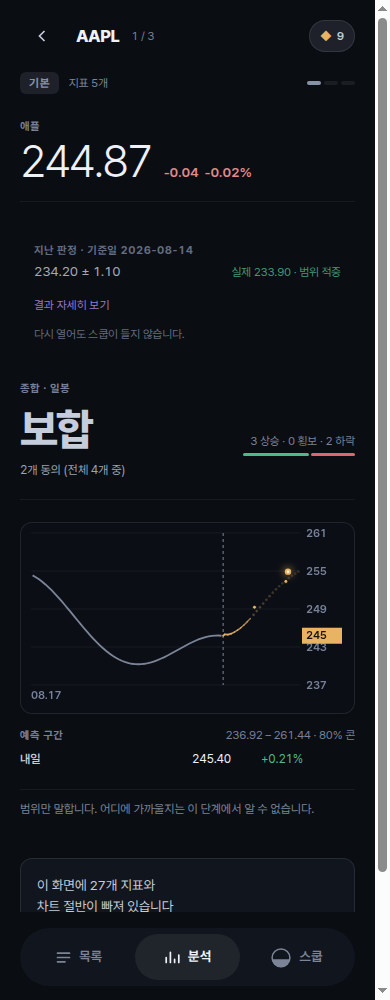
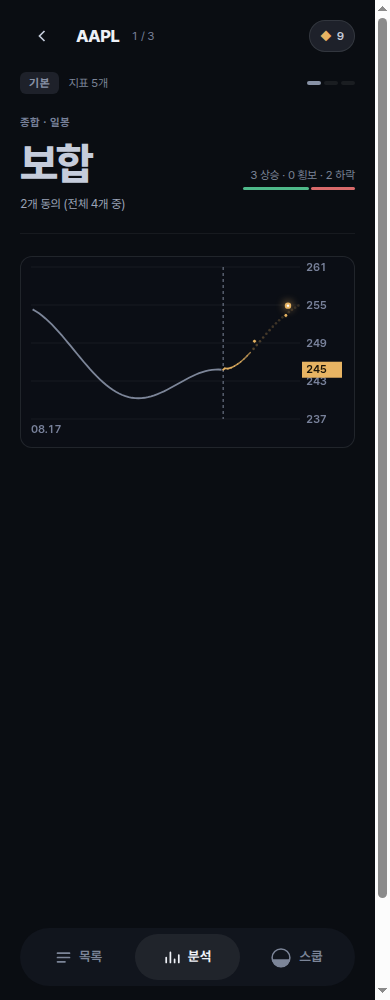
feat(mobile): 리포트 블록 선언 — 세 티어가 한 구조를 공유한다
전문은 심화의 블록을 하나도 빼지 않고 조절판만 더한 것이다. 각 화면이 자기 조립
코드를 갖고 있으면 그 규칙을 사람이 눈으로 지켜야 하고, 5스쿱을 낸 사용자가 한 줄
손해 보는 것을 아무도 못 잡는다. 선언으로 뽑아 기계가 세게 했다.

기본 3 · 심화 8 · 전문 9(P1 설계서 §3.2·§3.5·§3.7 — 구 P2 구현의 심화 7개는 서브패널
셈법 차이로 낡은 수치였다). report-blocks.js 의 orderOf 를 forTier 로 개명하고(브리프가
쓰던 이름과 현행 API 가 달랐다), 유일한 소비자 screens/report.js:1270 과 tier-three.test.mjs
(품질 관문, grep 로 못 잡던 두 번째 소비자)를 같은 커밋에서 갱신해 앱이 깨진 채로
남지 않게 했다.

report-model.js 에 verdict()·sentence() 를 더한다. verdict 는 지표 바이어스 집계를
동의/반대/무판정으로 매핑하고 합계를 검산하는 뷰모델(하락 판정에선 down 이 동의가
된다). sentence 는 19b 「한 문장으로」— 생성 문구가 아니라 방향·과열·저항 세 값을
strings.js 조각으로 잇는 템플릿이다.

기본 화면의 BUILD 표는 넓히지 않았다 — 화면 조립은 Task 3(기본)·P1b/P1c(심화·전문)
소관이라 이번엔 손대지 않는다. comb·sentence 등 새 블록 id 는 아직 그리는 함수가
없어 조용히 건너뛰지만(if (!fn) return), 브라우저 관문은 report 라우트 포함 6/6이다.

diff --git a/map/mobile/www/report-blocks.js b/map/mobile/www/report-blocks.js
@@ -1,60 +1,37 @@
-// 티어별 리포트 블록 **선언**. DOM 도 엔진도 모른다 — 이름의 순서와 셈법만 담는다.
+// 리포트가 무엇을 어떤 순서로 그리는가 — 선언만. DOM 도 계산도 없다.
 //
-// 왜 선언으로 빼는가: 블록 3/8/9 는 세 벌의 화면이 아니라 **같은 렌더러가 다른 목록을 받는
-// 것**이다. 세 벌로 쓰면 공통 블록을 고칠 때 세 곳을 고쳐야 하고, 한 곳을 빠뜨려도 그 티어를
-// 열어보기 전엔 아무도 모른다. screens/report.js 는 이미 966줄이었다 — 티어 두 벌을 그 안에
-// 더 넣으면 손댈 수 없는 파일이 된다.
+// 세 티어가 같은 선언을 공유하는 이유: 전문은 심화의 블록을 하나도 빼지 않고 조절판만
+// 더한 것이다(설계 §3.7). 각 화면이 자기 조립 코드를 갖고 있으면 그 규칙을 사람이
+// 눈으로 지켜야 하고, 5스쿱을 낸 사용자가 한 줄 손해 보는 것을 아무도 못 잡는다.
 (function (root, factory) {
   if (typeof module !== "undefined" && module.exports) module.exports = factory();
   else MSGlobals.define("MSReportBlocks", factory());
 })(typeof self !== "undefined" ? self : this, function () {
   "use strict";
 
-  // 시안이 "블록 N개"를 셀 때 세지 않는 것들 — 화면의 뼈대지 파는 정보가 아니다.
-  //  price  : 종목명·가격·티어 배지 머리
-  //  legend : 차트존의 일부(18b 는 차트존을 하나로 센다)
-  //  note   : 측정 범위 고지 각주
-  //  spacer : 18a 의 의도된 빈 공간(flex:1)
-  //  unlock : 해제 카드. 18a 는 "블록 3개 = 판정+차트+범위"라 적고 이 카드를 따로 뒀다
-  // 크롬 — 시안의 "블록 N개" 셈에 안 들어가는 것들. 티어가 **파는 정보**가 아니라 화면의
-  // 골격이거나(가격 머리·범례·면책) 되돌아보기 장치다.
-  // "last"(지난 판정, 21a)를 여기 두는 이유: 그것은 이 티어가 오늘 파는 정보가 아니라
-  // 이미 값을 치른 과거의 결과다. 정보 블록으로 세면 기본분석이 3개가 아니라 4개가 되어
-  // "여기까지가 무료"라는 시안의 셈이 무너진다.
-  var CHROME = ["price", "legend", "note", "spacer", "unlock", "last"];
+  // 기본은 셋뿐이다. 화면 아래가 비는 것이 설계다 — 스크롤할 것이 없다는 사실 자체가
+  // "여기까지가 무료"를 말한다(시안 18a).
+  var BASIC = ["verdict", "comb", "chart"];
 
-  // 기본분석(시안 18a) — 판정 → 차트(150) → 내일 범위 → **빈 공간** → 해제 카드.
-  // 빈 공간은 버그가 아니다. "여기까지가 무료"를 스크롤 부재로 전달한다 — 채우지 말 것.
-  // "last" 는 지난 판정 되돌아보기(시안 21a) — 값을 치른 적이 있는 종목에만 나온다.
-  // 판정 **위**에 둔다: 앱을 다시 연 사람의 첫 질문이 "어제 그거 맞았나"이기 때문이고,
-  // 그 답을 아래로 내리면 오늘 값을 먼저 보고 어제 것과 헷갈린다.
-  var BASIC = ["price", "last", "verdict", "chart", "horizons", "spacer", "unlock"];
+  // 심화는 값이 큰 것부터. 「한 문장으로」가 맨 위인 이유는 숫자를 먼저 내면 대부분이
+  // 해석을 못 하고 닫기 때문이다(시안 19b).
+  var FULL = ["sentence", "forecast", "chart", "dissent", "horizons", "hitrate", "readings", "compare"];
 
-  // 심화분석(시안 18b) — 판정 먼저. 8a 의 직전 상태 대조는 horizons 블록 **안에** 얹힌다
-  // (별도 블록이 아니다 — 골격을 바꾸지 않고 얹는다는 것이 사용자 결정의 요지다).
-  //
-  // P1 이 갖고 있던 SIGNALS·REASONING·미반영 박스 셋은 여기서 빠졌다. 사라진 게 아니라
-  // **판독문 화면(20a)으로 옮겼다** — 시안 18b 가 그 자리에 "지표 32개 판독문" 링크 하나를
-  // 두는 이유가 이것이다. 목적지 없이 먼저 지웠으면 돈 내고 산 정보가 없어졌을 것이라,
-  // 판독문 화면(Task 10)을 먼저 세우고 이 라운드에 옮겼다.
-  var FULL = ["price", "last", "verdict", "chart", "legend", "horizons",
-              "against", "tf", "note", "readings", "cta"];
+  // 조절판은 판정보다 위에 온다(시안 18c) — 내가 만진 것이 결과를 바꿨다는 순서다.
+  var CUSTOM = ["weights"].concat(FULL);
 
-  // 전문분석(시안 18c) — 심화의 블록을 **하나도 빼지 않고** 위에 조절판을 얹는다.
-  // 한 겹이라도 빠지면 5스쿱 낸 사람이 손해다(인벤토리 §3). 그래서 FULL 을 복사해 쓴다:
-  // 심화가 늘면 전문도 자동으로 는다. 조절판(weights)은 판정 위, 머리 바로 아래다.
-  var CUSTOM = ["price", "weights"].concat(FULL.slice(1));
+  var KIND = {
+    verdict: "verdict", comb: "comb", chart: "chart", sentence: "sentence",
+    forecast: "forecast", dissent: "dissent", horizons: "horizons",
+    hitrate: "hitrate", readings: "readings", compare: "compare", weights: "weights"
+  };
 
-  var TIERS = { basic: BASIC, full: FULL, custom: CUSTOM };
-
-  function orderOf(tier) {
-    return (TIERS[tier] || BASIC).slice();
+  function forTier(tier) {
+    var ids = tier === "custom" ? CUSTOM : (tier === "full" ? FULL : BASIC);
+    var out = [], i;
+    for (i = 0; i < ids.length; i++) out.push({ id: ids[i], kind: KIND[ids[i]] });
+    return out;
   }
-  // 정보 블록 수 — 시안의 "블록 N개"와 같은 셈법.
-  function countOf(tier) {
-    return orderOf(tier).filter(function (k) { return CHROME.indexOf(k) < 0; }).length;
-  }
-  function isChrome(key) { return CHROME.indexOf(key) >= 0; }
 
-  return { TIERS: TIERS, CHROME: CHROME, orderOf: orderOf, countOf: countOf, isChrome: isChrome };
+  return { forTier: forTier, COUNTS: { basic: BASIC.length, full: FULL.length, custom: CUSTOM.length } };
 });

diff --git a/map/mobile/www/report-model.js b/map/mobile/www/report-model.js
@@ -1,10 +1,15 @@
 // 리포트 화면의 계산만 담는다 — DOM 도 전역 엔진도 만지지 않는다.
 // ForgeCore 를 인자로 받는 것은 MSGraph.basicGraph(ForgeCore) 와 같은 규약이다.
+// verdict()·sentence() 는 문구 조각을 strings.js 에서 받는다(P1a Task 2) — chart-legend.js 가
+// MSStr 을 팩토리 인자로 받는 것과 같은 규약. 전역 MSStr 을 이 파일 안에서 직접 참조하면
+// node --test 가 require("./strings.js") 로 주입한 것과 어긋난다.
 (function (root, factory) {
-  if (typeof module !== "undefined" && module.exports) module.exports = factory();
-  else MSGlobals.define("MSReportModel", factory());
-})(typeof self !== "undefined" ? self : this, function () {
+  if (typeof module !== "undefined" && module.exports) module.exports = factory(require("./strings.js"));
+  else MSGlobals.define("MSReportModel", factory(root.MSStr));
+})(typeof self !== "undefined" ? self : this, function (Str) {
   "use strict";
+
+  var T = (Str && Str.t) || {};
 
   // 시안 2a 의 Tomorrow / In 1 week / In 1 month. 3개월(63봉)은 futW 상한(60)과
   // 콘 비중(28%→50%) 때문에 뺐다 — 설계서 §3.2.
@@ -135,5 +140,35 @@
     return { agree: total ? agree : 0, total: total };
   }
 
-  return { HORIZONS: HORIZONS, FLAT_EPS: FLAT_EPS, confidence: confidence, horizonRows: horizonRows, hitRate: hitRate, tfRows: tfRows, agreeCount: agreeCount, tfKo: tfKo };
+  // 판정 뷰모델 — 지표 바이어스 부호 집계(up/down/flat)를 화면이 쓰는 동의/반대/무판정으로
+  // 매핑하고 합계를 검산해 돌려준다. dir 이 어느 부호가 "동의"인지를 정한다 — 하락 판정에서는
+  // down 이 동의, up 이 반대가 된다(설계서 §3.5). 매핑을 화면마다 따로 하면 심화·전문에서
+  // 부호가 뒤집혀도 아무도 못 잡는다. total 을 여기서 도출해 돌려주는 이유는 "도구 32개 중
+  // 24개" 같은 헤드라인 카운터와 agree+dissent+noDir 의 합이 반드시 맞아야 하기 때문이다.
+  function verdict(an) {
+    var dir = (an && an.dir) || null;
+    var up = (an && typeof an.up === "number") ? an.up : 0;
+    var down = (an && typeof an.down === "number") ? an.down : 0;
+    var noDir = (an && typeof an.flat === "number") ? an.flat : 0;
+    var agree = 0, dissent = 0;
+    if (dir === "bull") { agree = up; dissent = down; }
+    else if (dir === "bear") { agree = down; dissent = up; }
+    else { noDir = up + down + noDir; }   // 방향이 없으면 "동의"할 방향 자체가 없다
+    return { dir: dir, agree: agree, dissent: dissent, noDir: noDir, total: agree + dissent + noDir };
+  }
+
+  // 19b 「한 문장으로」— 생성 문구가 아니라 방향·과열·저항 세 값을 규칙으로 잇는 템플릿이다.
+  // 숫자를 먼저 내면 대부분은 해석을 못 하고 닫기 때문에 이 문장이 심화 리포트 선언 순서의
+  // 맨 위에 온다(P1a Task 2). 문구 자체는 strings.js 에서 오고 여기는 조합만 한다 — 문장을
+  // 바꾸고 싶으면 strings.js 만 고치면 된다.
+  function sentence(an) {
+    var dir = an && an.dir;
+    var base = dir === "bull" ? T.rpSentBull : dir === "bear" ? T.rpSentBear : T.rpSentFlat;
+    var parts = [base];
+    if (an && an.overheat) parts.push(T.rpSentOverheat);
+    if (an && an.resistance) parts.push(T.rpSentResistance);
+    return parts.join(" ");
+  }
+
+  return { HORIZONS: HORIZONS, FLAT_EPS: FLAT_EPS, confidence: confidence, horizonRows: horizonRows, hitRate: hitRate, tfRows: tfRows, agreeCount: agreeCount, tfKo: tfKo, verdict: verdict, sentence: sentence };
 });

diff --git a/map/mobile/www/strings.js b/map/mobile/www/strings.js
@@ -508,6 +508,13 @@
     obDoneFree: "기본분석은 계속 무료입니다",
     obDoneEarn: "스쿱은 매일 출석하거나 광고로 얻습니다",
     obDoneStart: "받고 시작하기",
+
+    // 19b 「한 문장으로」 — 생성 문구가 아니라 방향·과열·저항 세 값을 잇는 규칙 조합 소재다
+    // (report-model.js sentence()). 조합 자체는 코드가 하므로 여기엔 완결된 절만 둔다 —
+    // 절을 어순 바꿔 붙이면 문법이 깨지는 구조는 피한다(공백으로 이어 붙여도 자연스럽게).
+    rpSentBull: "상승 흐름입니다.", rpSentBear: "하락 흐름입니다.", rpSentFlat: "뚜렷한 방향이 없습니다.",
+    rpSentOverheat: "다만 다소 과열된 구간입니다.",
+    rpSentResistance: "저항선이 가까워 속도가 둔화될 수 있습니다.",
   };
 
   // 상태 어휘 공유 맵 — chart-legend.js(레전드, 정본)와 draw-layers.js(캔버스 배지),

diff --git a/map/mobile/www/screens/report.js b/map/mobile/www/screens/report.js
@@ -1267,8 +1267,11 @@
           // 지금은 그 자리에 아무것도 안 그린다 — 관문이 이 미구현을 이름으로 드러낸다.
           weights:   function () { return buildWeights(); }
         };
-        MSReportBlocks.orderOf(tier).forEach(function (key) {
-          var fn = BUILD[key];
+        // report-blocks.js 가 orderOf(문자열 배열)에서 forTier({id,kind} 배열)로 개명됐다
+        // (P1a Task 2) — 화면 조립은 그대로, id 만 꺼내 쓴다. 이 화면 자체의 블록 구성은
+        // Task 3(기본)·P1b/P1c(심화·전문)이 다시 손댈 대상이라 BUILD 표는 여기서 넓히지 않는다.
+        MSReportBlocks.forTier(tier).forEach(function (b) {
+          var fn = BUILD[b.id];
           if (!fn) return;
           var node = fn();
           if (node) scr.appendChild(node);
